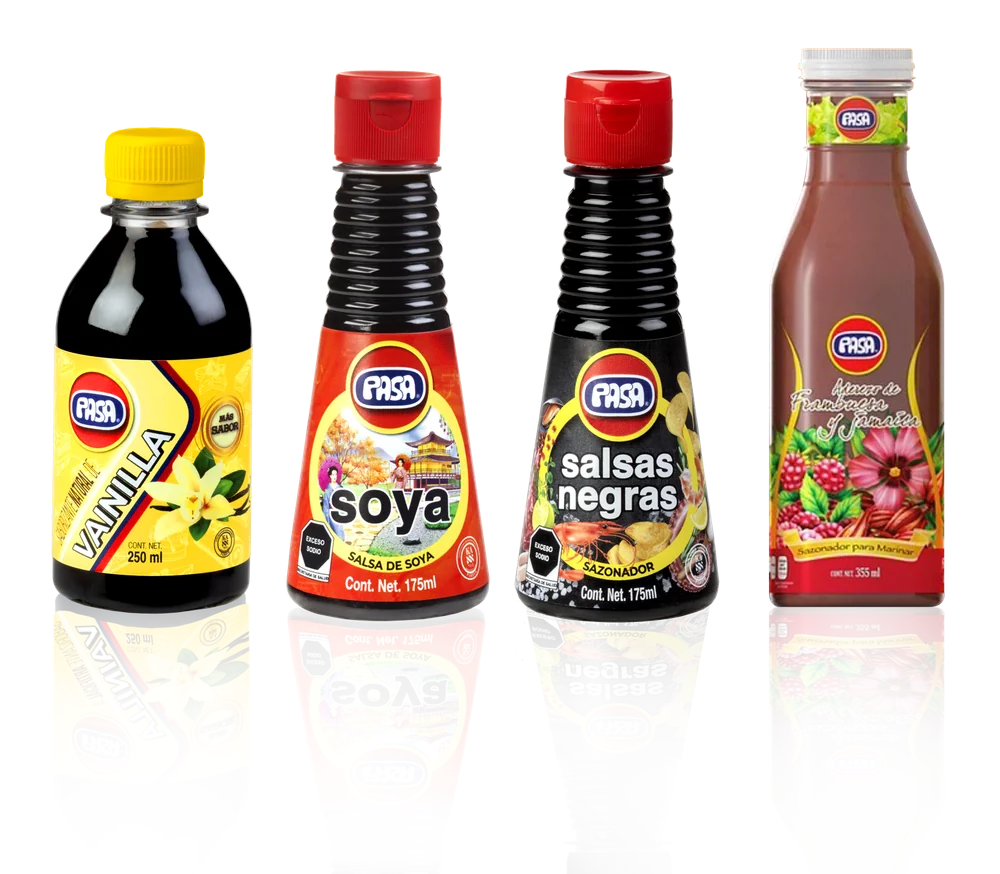
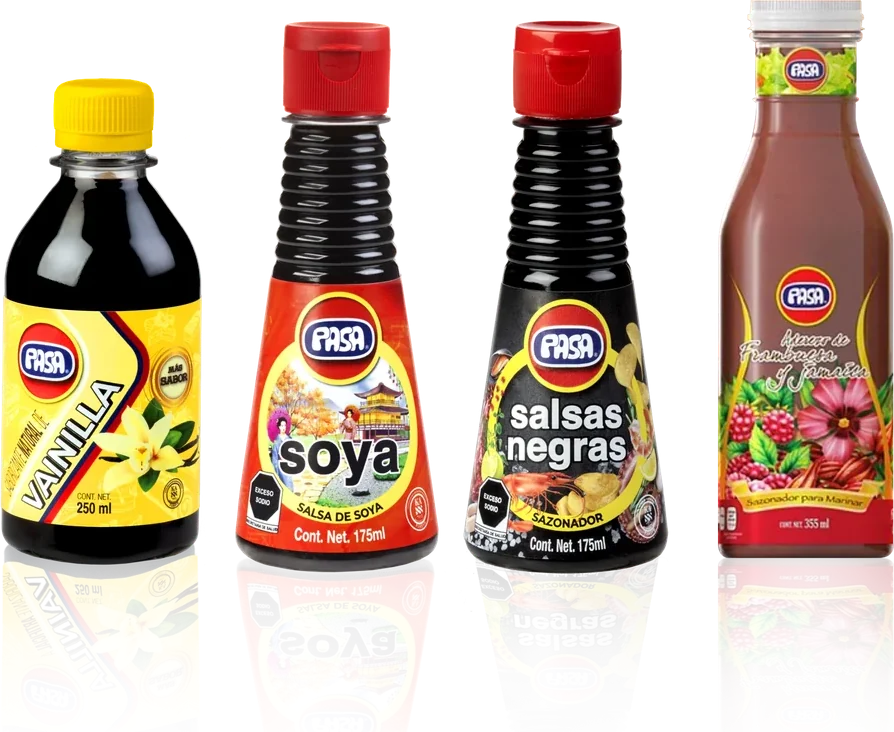
Actualización del sitio — 31/07/2026 20:00

diff --git a/index.html b/index.html
@@ -8,12 +8,12 @@
 <meta name="theme-color" content="#E3CE9E" />
 <meta property="og:title" content="PASA — El sabor que México le dio al mundo" />
 <meta property="og:description" content="Vainillas, soyas, sazonadores y aderezos gourmet. Calidad premium, inclusive Kosher. Desde 1985." />
-<meta property="og:image" content="assets/hero-bottles.webp" />
+<meta property="og:image" content="assets/hero-bottles.webp?r=2" />
 <link rel="icon" type="image/png" href="assets/logo-pasa.png" />
 <link rel="preconnect" href="https://fonts.googleapis.com" />
 <link rel="preconnect" href="https://fonts.gstatic.com" crossorigin />
 <link href="https://fonts.googleapis.com/css2?family=Karla:wght@400;600;700;800&family=Fraunces:ital,opsz,wght@0,9..144,600;0,9..144,800;0,9..144,900;1,9..144,700&display=swap" rel="stylesheet" />
-<link rel="stylesheet" href="styles.css?v=30" />
+<link rel="stylesheet" href="styles.css?v=31" />
 <style>
   /* ===== HERO HOME ===== */
   .hero{
@@ -39,11 +39,11 @@
   .hero-pills a:hover{background:#fff;color:var(--acento);border-color:var(--acento);transform:translateY(-2px)}
   .hero-pills a:focus-visible{outline:3px solid var(--acento);outline-offset:2px}
   .hero-visual{position:relative;display:grid;place-items:start center;min-height:0;padding:7px 0 0}
-  .hero-bottles{width:min(100%,512px);position:relative;z-index:2}
+  .hero-bottles{width:min(100%,546px);position:relative;z-index:2;margin-inline:auto}
   /* resplandor blanco CUADRADO: rectángulo difuminado con blur,
      sin bordes duros, se funde con el degradado del hero */
   .hero-panel{
-    position:absolute;z-index:1;inset:-9% -5% -12%;pointer-events:none;
+    position:absolute;z-index:1;inset:0 -3%;pointer-events:none;
     background:rgba(255,255,255,.94);
     border-radius:34px;
     filter:blur(26px);
@@ -93,7 +93,7 @@
     .hero{padding:calc(var(--navh) + 40px) 0 40px}
     /* en teléfono el titular va primero, la botella después */
     .hero-visual{order:0;min-height:0;padding:1rem .6rem}
-    .hero-bottles{width:min(96%,330px)}
+    .hero-bottles{width:min(96%,340px)}
     .hero-pills{margin-top:1.6rem;gap:.4rem}
     .hero-pills a{font-size:.72rem;padding:.42rem .85rem}
     .hero-cta .btn{width:100%;justify-content:center}
@@ -142,7 +142,7 @@
     </div>
     <div class="hero-visual">
       <span class="hero-panel"></span>
-      <img class="hero-bottles" src="assets/hero-bottles.webp" alt="Botellas PASA: vainilla, soya, salsas negras y aderezo de frambuesa y jamaica" fetchpriority="high" />
+      <img class="hero-bottles" src="assets/hero-bottles.webp?r=2" alt="Botellas PASA: vainilla, soya, salsas negras y aderezo de frambuesa y jamaica" fetchpriority="high" />
     </div>
   </div>
 </section>

diff --git a/contacto.html b/contacto.html
@@ -9,7 +9,7 @@
 <link rel="preconnect" href="https://fonts.googleapis.com" />
 <link rel="preconnect" href="https://fonts.gstatic.com" crossorigin />
 <link href="https://fonts.googleapis.com/css2?family=Karla:wght@400;600;700;800&family=Fraunces:ital,opsz,wght@0,9..144,600;0,9..144,800;0,9..144,900;1,9..144,700&display=swap" rel="stylesheet" />
-<link rel="stylesheet" href="styles.css?v=30" />
+<link rel="stylesheet" href="styles.css?v=31" />
 <style>
   .contact-sec{background:var(--crema)}
   .contact-info h2{font-size:clamp(1.9rem,3.8vw,2.7rem);margin:.9rem 0 1rem}
@@ -63,7 +63,7 @@
 
 <!-- ===== PAGE HERO ===== -->
 <section class="page-hero mar">
-  <img class="deco" src="assets/hero-bottles.webp" alt="" aria-hidden="true" style="width:240px;bottom:8%;right:5%;opacity:.95" />
+  <img class="deco" src="assets/hero-bottles.webp?r=2" alt="" aria-hidden="true" style="width:240px;bottom:8%;right:5%;opacity:.95" />
   <div class="wrap">
     <span class="crumbs">Inicio / Contacto</span>
     <h1>Estamos para servirte</h1>

diff --git a/productos.html b/productos.html
@@ -9,7 +9,7 @@
 <link rel="preconnect" href="https://fonts.googleapis.com" />
 <link rel="preconnect" href="https://fonts.gstatic.com" crossorigin />
 <link href="https://fonts.googleapis.com/css2?family=Karla:wght@400;600;700;800&family=Fraunces:ital,opsz,wght@0,9..144,600;0,9..144,800;0,9..144,900;1,9..144,700&display=swap" rel="stylesheet" />
-<link rel="stylesheet" href="styles.css?v=30" />
+<link rel="stylesheet" href="styles.css?v=31" />
 <style>
   /* ====== sub-nav sticky de categorías ====== */
   .catnav{position:sticky;top:var(--navh);z-index:80;background:rgba(250,247,240,.9);backdrop-filter:blur(14px);-webkit-backdrop-filter:blur(14px);border-bottom:1.5px solid var(--border)}

diff --git a/nosotros.html b/nosotros.html
@@ -9,7 +9,7 @@
 <link rel="preconnect" href="https://fonts.googleapis.com" />
 <link rel="preconnect" href="https://fonts.gstatic.com" crossorigin />
 <link href="https://fonts.googleapis.com/css2?family=Karla:wght@400;600;700;800&family=Fraunces:ital,opsz,wght@0,9..144,600;0,9..144,800;0,9..144,900;1,9..144,700&display=swap" rel="stylesheet" />
-<link rel="stylesheet" href="styles.css?v=30" />
+<link rel="stylesheet" href="styles.css?v=31" />
 <style>
   .story{background:var(--crema)}
   .story-grid{display:grid;grid-template-columns:1.1fr 1fr;gap:clamp(2rem,5vw,4.5rem);align-items:center;position:relative;z-index:1}

diff --git a/recetas.html b/recetas.html
@@ -9,7 +9,7 @@
 <link rel="preconnect" href="https://fonts.googleapis.com" />
 <link rel="preconnect" href="https://fonts.gstatic.com" crossorigin />
 <link href="https://fonts.googleapis.com/css2?family=Karla:wght@400;600;700;800&family=Fraunces:ital,opsz,wght@0,9..144,600;0,9..144,800;0,9..144,900;1,9..144,700&display=swap" rel="stylesheet" />
-<link rel="stylesheet" href="styles.css?v=30" />
+<link rel="stylesheet" href="styles.css?v=31" />
 <style>
   .recipes{background:var(--crema)}
   .recipe{
